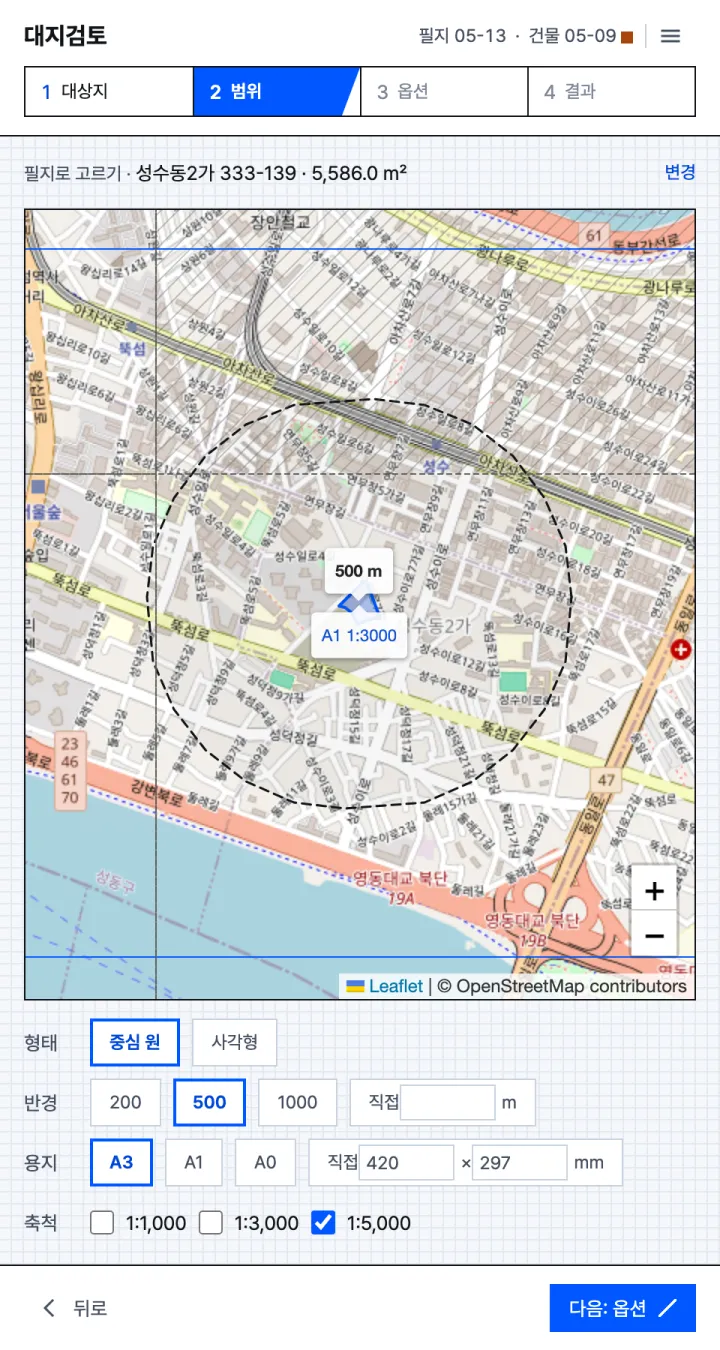
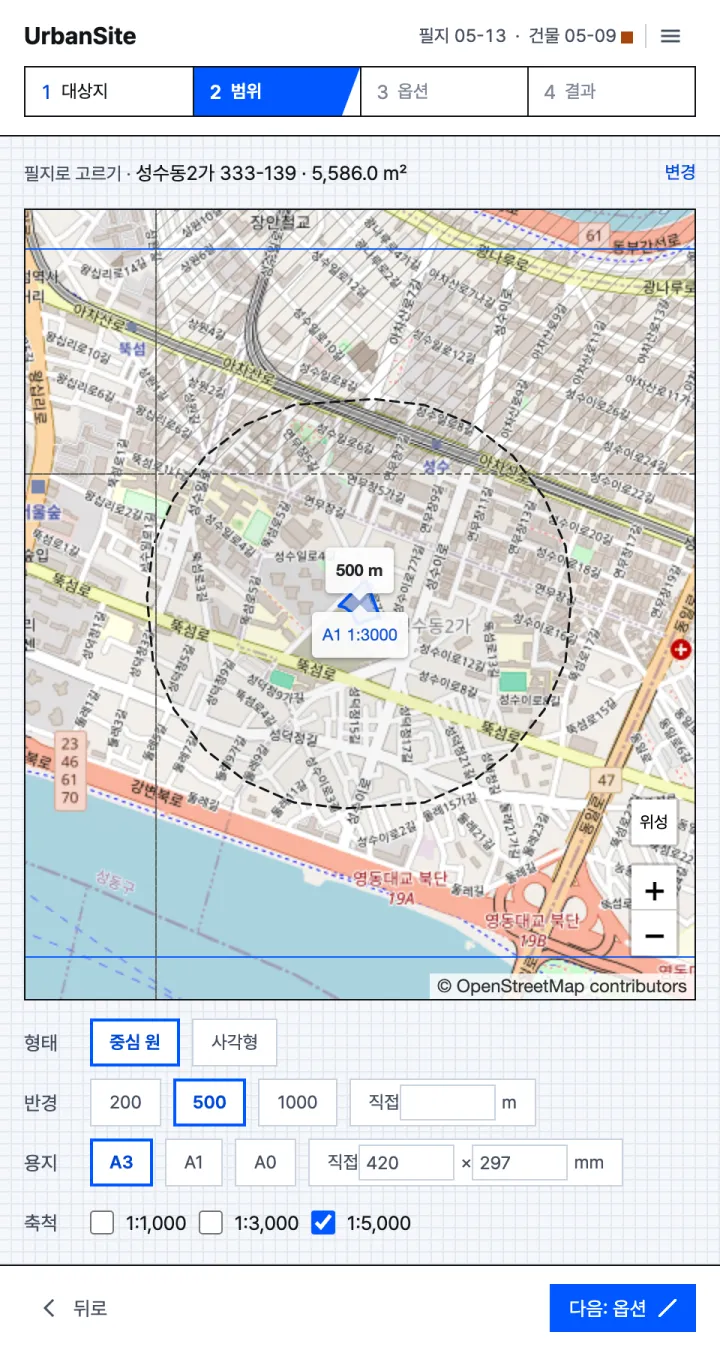
자주 묻는 질문 삭제(사용 통계·등고선 공개 제한은 꼬리말로), 대지검토 표기 제거·패널 스크린샷 다시 찍음

diff --git a/index.html b/index.html
@@ -28,7 +28,7 @@
   "@context": "https://schema.org",
   "@type": "SoftwareApplication",
   "name": "UrbanSite",
-  "alternateName": ["대지검토", "UrbanSite for Rhino"],
+  "alternateName": ["UrbanSite for Rhino"],
   "description": "필지나 위치를 고르면 주변 건물·도로·지형·수계를 Rhino 8 문서에 3D로 만들고, 일러스트레이터 베이스맵과 도시설계 현황·분석도를 함께 내는 무료 Rhino 플러그인.",
   "applicationCategory": "DesignApplication",
   "applicationSubCategory": "Rhino 8 plugin",
@@ -65,14 +65,13 @@
   <div class="wrap">
     <a class="brand" href="./" aria-label="UrbanSite 처음으로">
       <svg viewBox="0 0 32 32" aria-hidden="true"><rect x="1" y="1" width="30" height="30" fill="var(--surface)" stroke="var(--ink)" stroke-width="2"/><path d="M1 11h30M1 21h30M11 1v30M21 1v30" stroke="var(--hair)" stroke-width="1.5"/><path d="M11 11h10v10H11z" fill="var(--blue)"/></svg>
-      <b>UrbanSite</b><span>대지검토</span>
+      <b>UrbanSite</b><span>Rhino 8 플러그인</span>
     </a>
     <nav class="nav" aria-label="페이지 안">
       <a href="#install">설치</a>
       <a href="#outputs">결과물</a>
       <a href="#ai">AI 에이전트</a>
       <a href="#free">후원</a>
-      <a href="#faq">자주 묻는 질문</a>
     </nav>
     <a class="lang" href="en/" hreflang="en" lang="en">English</a>
   </div>
@@ -145,7 +144,7 @@
           </li>
           <li>
             <h3>패널 열기</h3>
-            <p>명령창에 <code>UrbanSite</code>를 입력하면 대지검토 패널이 열립니다. 국내 대상지는 처음에 그 지역 데이터를 한 번 받아야 합니다. <span class="ui">지도에서 지역 골라 받기</span>를 누르고, 지도를 대상지 쪽으로 옮긴 다음 <span class="ui">받기</span>를 누르세요. 구 하나에 수십 MB입니다.</p>
+            <p>명령창에 <code>UrbanSite</code>를 입력하면 UrbanSite 패널이 열립니다. 국내 대상지는 처음에 그 지역 데이터를 한 번 받아야 합니다. <span class="ui">지도에서 지역 골라 받기</span>를 누르고, 지도를 대상지 쪽으로 옮긴 다음 <span class="ui">받기</span>를 누르세요. 구 하나에 수십 MB입니다.</p>
           </li>
           <li>
             <h3>대상지 고르고 생성</h3>
@@ -167,7 +166,7 @@
         </div>
       </div>
       <ul class="screens">
-        <li><figure><img src="assets/panel-site.webp" width="720" height="1350" loading="lazy" alt="대지검토 패널의 대상지 단계. 지도에서 성수동2가 333-139 필지가 파랗게 선택되어 있고 아래에 면적 5,586 제곱미터가 보인다."><figcaption><b>대상지</b>필지를 클릭하거나 구역을 그리거나 위치를 찍습니다. 주소나 지번으로 검색할 수 있습니다.</figcaption></figure></li>
+        <li><figure><img src="assets/panel-site.webp" width="720" height="1350" loading="lazy" alt="UrbanSite 패널의 대상지 단계. 지도에서 성수동2가 333-139 필지가 파랗게 선택되어 있고 아래에 면적 5,586 제곱미터가 보인다."><figcaption><b>대상지</b>필지를 클릭하거나 구역을 그리거나 위치를 찍습니다. 주소나 지번으로 검색할 수 있습니다.</figcaption></figure></li>
         <li><figure><img src="assets/panel-extent.webp" width="720" height="1350" loading="lazy" alt="범위 단계. 대상지 둘레에 반경 500 m 원이 점선으로 그려져 있고 반경·용지·축척을 고르는 칸이 있다."><figcaption><b>범위</b>반경, 용지, 축척을 정합니다. 점선 원 안쪽이 모델링됩니다.</figcaption></figure></li>
         <li><figure><img src="assets/panel-result.webp" width="720" height="1350" loading="lazy" alt="결과 단계. 생성 완료 8초, Rhino 문서에 건물 3,454동이 들어갔고 아래에 도면 23장 목록이 칸으로 나열되어 있다."><figcaption><b>결과</b>3D 모델은 이미 문서에 들어가 있고, 도면은 결과 폴더에서 일러스트레이터로 열면 됩니다.</figcaption></figure></li>
       </ul>
@@ -259,7 +258,7 @@
       <div class="module ai">
         <div>
           <p>Claude나 ChatGPT를 Rhino MCP로 연결해 쓰고 있다면, AI에게 주변 건물을 하나씩 그리게 하지 말고 이 플러그인을 설치하게 하세요. 그게 더 빠르고 정확합니다. 예를 들면 이렇게 말하면 됩니다.</p>
-          <p class="say"><svg aria-hidden="true"><use href="#i-say"/></svg>UrbanSite 플러그인 설치하고 대지검토 패널 열어 줘</p>
+          <p class="say"><svg aria-hidden="true"><use href="#i-say"/></svg>UrbanSite 플러그인 설치하고 패널 열어 줘</p>
           <p>대상지 선택은 패널에서 직접 합니다. AI가 읽을 설명은 <a href="llms.txt">llms.txt</a>에 따로 정리해 두었습니다.</p>
         </div>
         <div>
@@ -295,59 +294,18 @@
     </div>
   </section>
 
-  <div class="wrap">
-    <section class="block" id="faq" aria-labelledby="faq-title">
-      <div class="head"><div><h2 id="faq-title">자주 묻는 질문</h2></div></div>
-      <div class="faq">
-        <details>
-          <summary>정말 무료인가요?</summary>
-          <div><p>네. 가입이나 결제 없이 씁니다. 후원은 선택이고, 후원한다고 기능이 달라지지 않습니다.</p></div>
-        </details>
-        <details>
-          <summary>그래스호퍼나 파이썬을 알아야 하나요?</summary>
-          <div><p>아니요. 명령어 하나(<code>UrbanSite</code>)와 패널 버튼만 씁니다. 따로 설치할 파이썬 패키지도 없습니다.</p></div>
-        </details>
-        <details>
-          <summary>Rhino에서 대지 주변 건물·지형을 자동으로 만들 수 있나요?</summary>
-          <div><p>네. 대상지를 고르면 반경 안의 건물(층수로 높이 계산), 도로, 지형 메시, 하천, 녹지, 철도가 레이어별로 들어옵니다. 반경은 100 m에서 2 km 사이로 정합니다.</p></div>
-        </details>
-        <details>
-          <summary>해외 대상지도 되나요?</summary>
-          <div><p>됩니다. 건물과 도로는 OpenStreetMap, 지형은 공개 지형 타일에서 생성할 때 받아 오기 때문에 인터넷이 필요합니다. 건물 높이는 OSM 태그를 쓰고, 태그가 없으면 기본값이 들어갑니다. 필지·용도지역 도면은 국내 대상지에서만 나옵니다.</p></div>
-        </details>
-        <details>
-          <summary>Mac에서도 되나요?</summary>
-          <div><p>네. Rhino 8 for Mac에서도 Windows와 똑같이 씁니다.</p></div>
-        </details>
-        <details>
-          <summary>데이터는 어디서 오고, 얼마나 최신인가요?</summary>
-          <div><p>국토교통부(GIS건물통합정보, 토지특성정보, 토지이용계획정보), 국토지리정보원(수치지형도 1:5,000), 서울시(UPIS)의 공개 데이터입니다. 자료마다 기준일이 달라서 패널과 도면에 기준일을 같이 적어 둡니다. 법적 효력은 없습니다.</p></div>
-        </details>
-        <details>
-          <summary>결과를 보고서나 공모전 패널에 써도 되나요?</summary>
-          <div><p>됩니다. 도면 아래 출처 표기만 지우지 말아 주세요. 다만 등고선이나 표고가 들어간 파일(3dm, 베이스맵)은 인터넷에 올리면 안 됩니다. 국토지리정보원 보안관리규정 때문입니다.</p></div>
-        </details>
-        <details>
-          <summary>어떤 정보를 보내나요?</summary>
-          <div><p>어디서 어떻게 쓰이는지 보고 고치려고 Google Analytics로 사용 통계를 보냅니다. 보내는 것은 설치마다 만든 무작위 ID, 버전과 OS, 생성한 대상지 위치(필지 번호나 중심 좌표), 범위, 걸린 시간, 건물 수, 오류 종류입니다. 이름, 파일 경로, 도면 내용은 보내지 않습니다.</p><p>국내 데이터를 받을 때는 하루 다운로드 한도를 세려고 같은 ID를 국내 서버에도 보냅니다.</p></div>
-        </details>
-        <details>
-          <summary>문제가 생기면 어디에 알리나요?</summary>
-          <div><p><a href="https://github.com/969flash/urbansite/issues">GitHub Issues</a>에 남겨 주세요. 결과 폴더의 <code>log.txt</code>를 같이 올려 주시면 원인을 찾기 쉽습니다.</p></div>
-        </details>
-      </div>
-    </section>
-  </div>
 </main>
 
 <footer class="foot">
   <div class="wrap">
     <div>
-      <p><b>UrbanSite</b> · 대지검토</p>
+      <p><b>UrbanSite</b></p>
       <p>Rhino 8 플러그인. 만든 사람 <a href="https://github.com/969flash">969flash</a></p>
     </div>
     <div>
       <p>데이터: 국토교통부 · 국토지리정보원 · 서울특별시(공공누리 제1유형 등, 이용 조건은 도면 출처 줄에 표기) · © OpenStreetMap contributors (ODbL)</p>
+      <p>사용 통계: 설치마다 만든 무작위 ID, 버전·OS, 생성한 대상지 위치·범위·걸린 시간·오류 종류를 Google Analytics로 보냅니다. 이름·파일 경로·도면 내용은 보내지 않습니다.</p>
+      <p>등고선·표고가 든 결과물(3dm, 베이스맵)은 인터넷에 올리지 마세요. 국토지리정보원 보안관리규정에 따른 제한입니다.</p>
       <p>Rhino와 Rhinoceros는 Robert McNeel &amp; Associates의 상표입니다. 이 도구는 McNeel과 관계가 없습니다.</p>
     </div>
     <div>

diff --git a/en/index.html b/en/index.html
@@ -28,7 +28,7 @@
   "@context": "https://schema.org",
   "@type": "SoftwareApplication",
   "name": "UrbanSite",
-  "alternateName": ["UrbanSite for Rhino", "대지검토"],
+  "alternateName": ["UrbanSite for Rhino"],
   "description": "A free Rhino 8 plugin that builds a site context model: pick a site and the surrounding buildings, roads, terrain, water, green space and rail are created as 3D in the open Rhino document, together with a layered Illustrator basemap and urban analysis maps.",
   "applicationCategory": "DesignApplication",
   "applicationSubCategory": "Rhino 8 plugin",
@@ -71,7 +71,6 @@
       <a href="#outputs">Outputs</a>
       <a href="#ai">AI agents</a>
       <a href="#free">Support</a>
-      <a href="#faq">FAQ</a>
     </nav>
     <a class="lang" href="../" hreflang="ko" lang="ko">한국어</a>
   </div>
@@ -301,49 +300,6 @@
     </div>
   </section>
 
-  <div class="wrap">
-    <section class="block" id="faq" aria-labelledby="faq-title">
-      <div class="head"><div><h2 id="faq-title">Questions</h2></div></div>
-      <div class="faq">
-        <details>
-          <summary>Is it really free?</summary>
-          <div><p>Yes. No account and no payment. Donations are optional and don't unlock anything.</p></div>
-        </details>
-        <details>
-          <summary>Can Rhino build the surrounding buildings and terrain of a site automatically?</summary>
-          <div><p>Yes, that's what it's for. The buildings (masses with heights from floor counts or OSM tags), roads, terrain mesh, water, green space and rail within the radius go into your document on separate layers. The radius can be anywhere from 100 m to 2 km.</p></div>
-        </details>
-        <details>
-          <summary>Does it work outside Korea?</summary>
-          <div><p>Yes. Buildings and roads come from OpenStreetMap and terrain from public terrain tiles. They are downloaded when you generate, so you need an internet connection. Building heights use OSM tags, or a default where there are none. The parcel and zoning maps only work for sites in Korea.</p></div>
-        </details>
-        <details>
-          <summary>Do I need Grasshopper or Python?</summary>
-          <div><p>No. You use one command (<code>UrbanSite</code>) and the panel. There's nothing extra to install.</p></div>
-        </details>
-        <details>
-          <summary>Is the interface in English?</summary>
-          <div><p>Not yet. The panel is in Korean, but there are only a few buttons, and the word list in the install section covers them.</p></div>
-        </details>
-        <details>
-          <summary>Does it run on a Mac?</summary>
-          <div><p>Yes, it works the same on Rhino 8 for Mac.</p></div>
-        </details>
-        <details>
-          <summary>What data does it send?</summary>
-          <div><p>It sends usage statistics to Google Analytics so I can see how the tool is used and fix problems: a random ID per install, versions and OS, where you generated (parcel ID or center coordinates), radius, run time, building count and error types. No names, file paths or drawing contents.</p><p>When you download Korean regional data, the same random ID also goes to the Korean data server to count the daily download limit.</p></div>
-        </details>
-        <details>
-          <summary>Can I use the results in reports and competition boards?</summary>
-          <div><p>Yes. Please keep the source line on each drawing, and credit "© OpenStreetMap contributors" for OSM data. Korean contour and elevation data may not be published online.</p></div>
-        </details>
-        <details>
-          <summary>Something broke. Where do I report it?</summary>
-          <div><p>Open a <a href="https://github.com/969flash/urbansite/issues">GitHub issue</a> and attach <code>log.txt</code> from the result folder.</p></div>
-        </details>
-      </div>
-    </section>
-  </div>
 </main>
 
 <footer class="foot">
@@ -354,6 +310,8 @@
     </div>
     <div>
       <p>Data: © OpenStreetMap contributors (ODbL) · Korea: Ministry of Land, Infrastructure and Transport, National Geographic Information Institute, Seoul Metropolitan Government (KOGL Type 1 and others; terms printed on each drawing).</p>
+      <p>Usage statistics: a random ID per install, versions and OS, where you generated, radius, run time and error types go to Google Analytics. No names, file paths or drawing contents.</p>
+      <p>Korean contour and elevation results may not be published online (NGII security rules).</p>
       <p>Rhino and Rhinoceros are trademarks of Robert McNeel &amp; Associates. This tool is not affiliated with McNeel.</p>
     </div>
     <div>

diff --git a/assets/style.css b/assets/style.css
@@ -272,20 +272,9 @@ pre.agent .k { color: #8CB0FF; }
 .give .btn.go:hover { background: transparent; color: var(--on-blue); }
 .give small { font-size: 14px; opacity: .85; }
 
-/* FAQ */
-.faq { border: 1px solid var(--ink); background: var(--surface); }
-.faq details { border-top: 1px solid var(--hair); }
-.faq details:first-child { border-top: 0; }
-.faq summary { display: flex; align-items: center; justify-content: space-between; gap: 16px; padding: 18px 24px; font-size: 18px; font-weight: 650; cursor: pointer; list-style: none; }
-.faq summary::-webkit-details-marker { display: none; }
-.faq summary::after { content: ""; width: 12px; height: 12px; flex: none; border-right: 1.5px solid var(--ink-2); border-bottom: 1.5px solid var(--ink-2); transform: translateY(-3px) rotate(45deg); transition: transform .2s; }
-.faq details[open] summary::after { transform: translateY(3px) rotate(-135deg); }
-.faq summary:hover { color: var(--blue-ink); }
-.faq details > div { padding: 0 24px 20px; color: var(--ink-2); max-width: 46em; }
-.faq details > div p { margin: 0 0 8px; }
 
 /* 꼬리 */
-.foot { margin-top: 120px; border-top: 1px solid var(--ink); background: var(--surface); font-size: 14px; color: var(--ink-2); }
+.foot { margin-top: 0; border-top: 0; background: var(--surface); font-size: 14px; color: var(--ink-2); }
 .foot .wrap { display: grid; grid-template-columns: minmax(0, 4fr) minmax(0, 5fr) minmax(0, 3fr); gap: 32px; padding-block: 40px 56px; }
 .foot p { margin: 0 0 8px; line-height: 1.6; }
 .foot b { color: var(--ink); }
@@ -337,7 +326,5 @@ pre.agent .k { color: #8CB0FF; }
   .ai > div { padding: 24px 20px; }
   .blueprint { margin-top: 88px; }
   .blueprint .wrap { padding-block: 64px; }
-  .faq summary { padding: 16px 20px; font-size: 17px; }
-  .faq details > div { padding: 0 20px 18px; }
   .foot .wrap { grid-template-columns: 1fr; }
 }

diff --git a/README.md b/README.md
@@ -5,7 +5,7 @@
 
 UrbanSite builds the surrounding buildings, roads, terrain, water, green space and rail of a site as 3D layers in your open Rhino 8 document, and writes a layered Illustrator basemap, urban analysis maps and CSV tables next to it. Free, no account. Windows and macOS.
 
-UrbanSite(대지검토)는 대상지를 고르면 주변 건물·도로·지형·수계·녹지·철도를 Rhino 8 문서에 3D로 만들고, 일러스트레이터 베이스맵과 도시설계 현황·분석도, 조서 CSV를 함께 내는 무료 플러그인입니다.
+UrbanSite는 대상지를 고르면 주변 건물·도로·지형·수계·녹지·철도를 Rhino 8 문서에 3D로 만들고, 일러스트레이터 베이스맵과 도시설계 현황·분석도, 조서 CSV를 함께 내는 무료 플러그인입니다.
 
 - Website: https://969flash.github.io/urbansite/ (한국어) · https://969flash.github.io/urbansite/en/ (English)
 - For AI tools: [llms.txt](https://969flash.github.io/urbansite/llms.txt)
